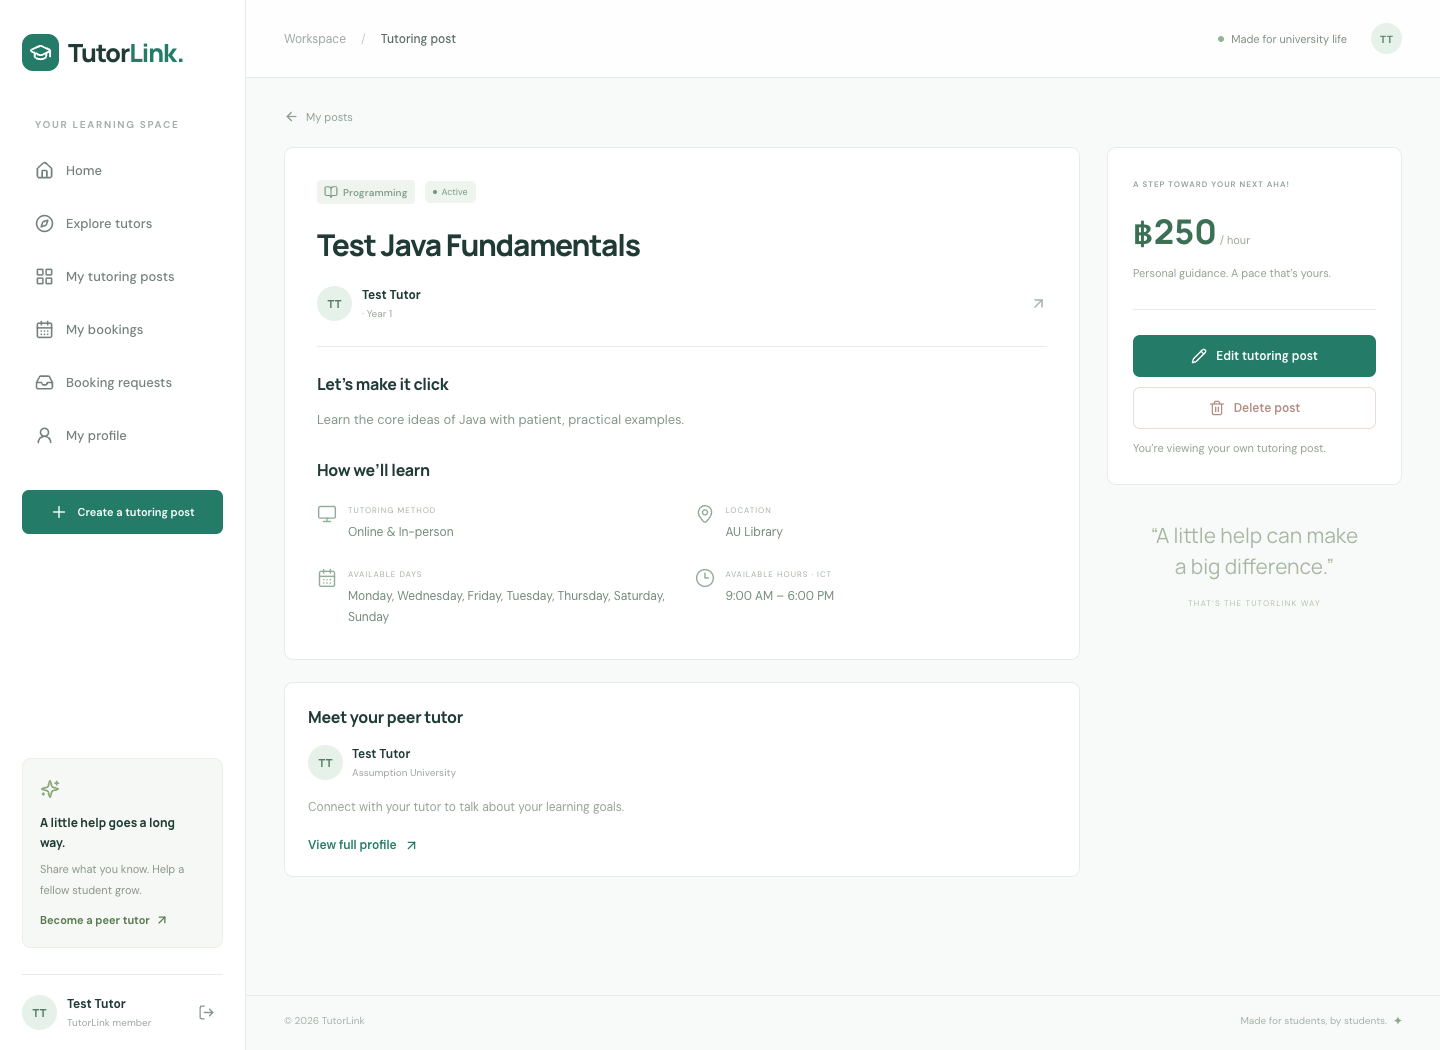
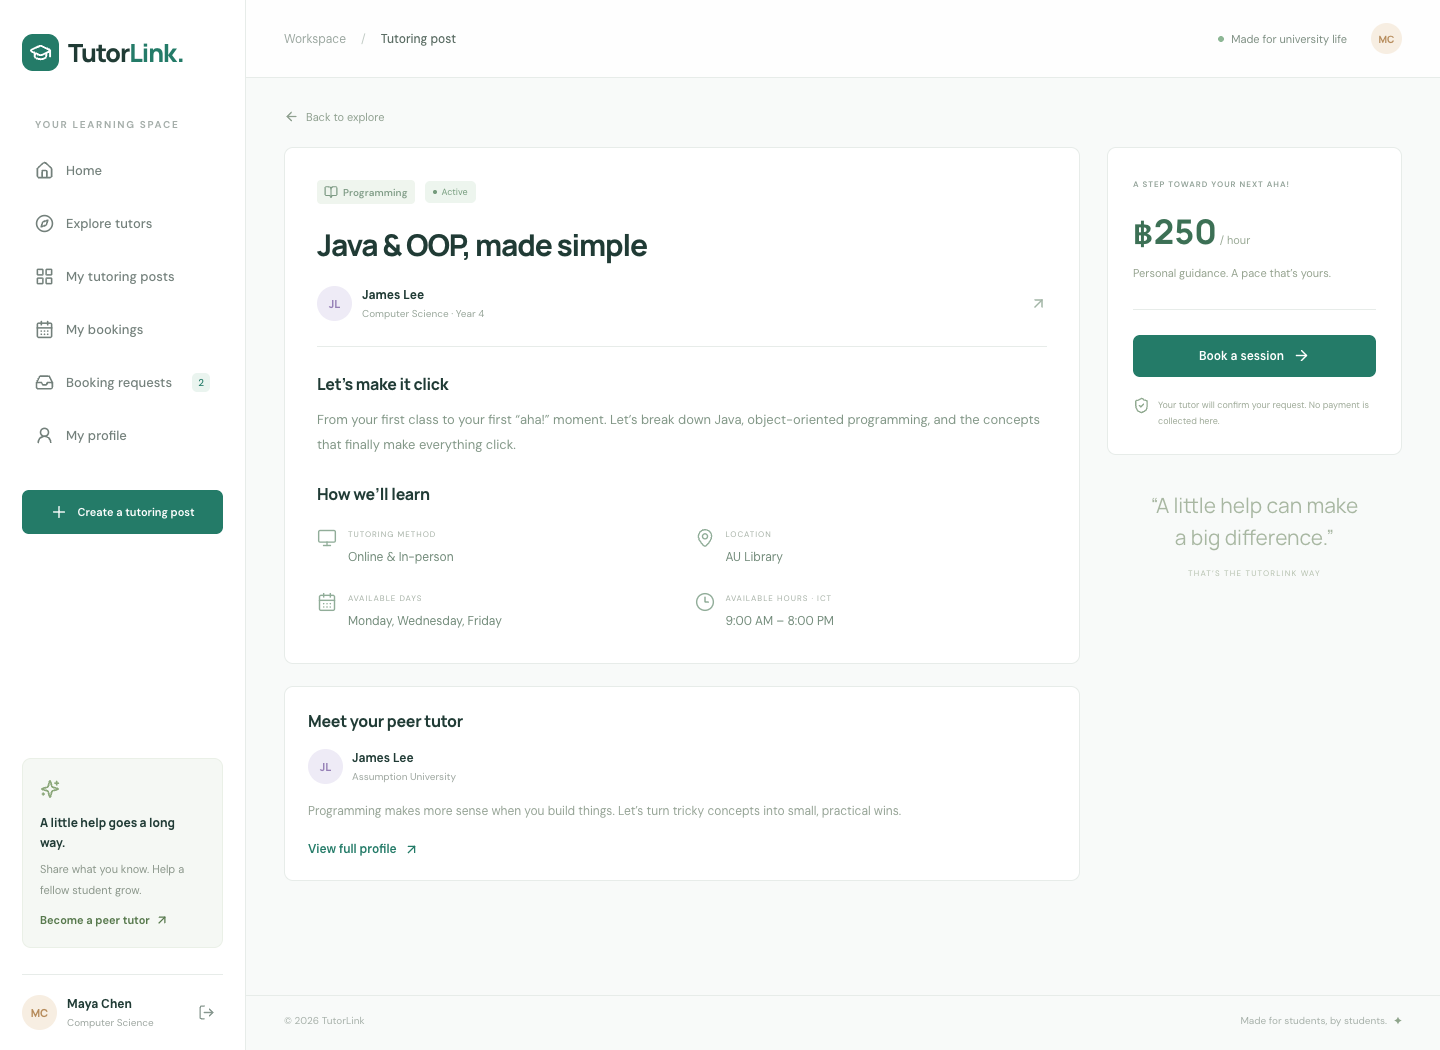
docs: add verified VM deployment and application screenshots

diff --git a/scripts/production-smoke.ts b/scripts/production-smoke.ts
@@ -1,0 +1,87 @@
+import { chromium, expect } from '@playwright/test';
+const origin = process.env.SMOKE_ORIGIN;
+if (!origin) throw new Error('Set SMOKE_ORIGIN to the full deployed app URL');
+const browser = await chromium.launch({
+  headless: true,
+  executablePath:
+    process.env.CHROME_PATH || '/Applications/Google Chrome.app/Contents/MacOS/Google Chrome',
+});
+const contexts = [await browser.newContext(), await browser.newContext()];
+const pages = await Promise.all(contexts.map((c) => c.newPage()));
+const ids: string[] = [];
+const stamp = Date.now();
+const password = 'SmokePass2026!';
+try {
+  for (const [i, page] of pages.entries()) {
+    await page.goto(origin + '/register');
+    await page.getByLabel('Full name').fill(i === 0 ? 'Smoke Tutor' : 'Smoke Student');
+    await page.getByLabel('Email address').fill(`smoke${stamp}-${i}@example.com`);
+    await page.getByLabel('Password', { exact: true }).fill(password);
+    await page.getByLabel('University').fill('Assumption University');
+    await page.getByRole('button', { name: 'Create account', exact: true }).click();
+    await expect(page.getByRole('heading', { name: /Hey, Smoke/ })).toBeVisible({ timeout: 30000 });
+    ids.push((await page.request.get(origin + '/api/auth/me').then((r) => r.json()))._id);
+  }
+  const [t, s] = pages;
+  await t.goto(origin + '/posts/new');
+  await t.getByLabel('Post title').fill('Deployment smoke test tutoring');
+  await t
+    .getByLabel('Description', { exact: true })
+    .fill('Temporary tutoring post for verifying the live booking workflow.');
+  await t.getByLabel('Location', { exact: true }).fill('University library');
+  for (const day of ['Tue', 'Thu', 'Sat', 'Sun']) await t.getByText(day, { exact: true }).check();
+  await t.getByRole('button', { name: 'Publish tutoring post' }).click();
+  await expect(t.getByRole('heading', { name: 'Deployment smoke test tutoring' })).toBeVisible();
+  const postId = t.url().split('/').pop()!;
+  await t.request.post(origin + '/api/auth/logout');
+  await t.goto(origin + '/login');
+  await t.getByLabel('Email address').fill(`smoke${stamp}-0@example.com`);
+  await t.getByLabel('Password', { exact: true }).fill(password);
+  await t.getByRole('button', { name: 'Sign in', exact: true }).click();
+  await expect(t.getByRole('heading', { name: /Hey, Smoke/ })).toBeVisible();
+  await s.goto(origin + '/posts/' + postId);
+  await s.getByRole('button', { name: 'Book a session' }).click();
+  await s
+    .getByLabel('Session date')
+    .fill(new Date(Date.now() + 21 * 86400000).toISOString().slice(0, 10));
+  await s.getByLabel('Start time').fill('11:00');
+  await s.getByRole('button', { name: 'Request session' }).click();
+  await expect(s.getByRole('heading', { name: 'Your session, at a glance.' })).toBeVisible();
+  const bookingId = s.url().split('/').pop()!;
+  await t.goto(origin + '/bookings/' + bookingId);
+  await t.getByRole('button', { name: 'Accept request' }).click();
+  await expect(t.getByText('Accepted', { exact: true })).toBeVisible();
+  await s.reload();
+  await expect(s.getByText('Accepted', { exact: true })).toBeVisible();
+  await s.getByRole('button', { name: 'Cancel booking', exact: true }).click();
+  await s.getByRole('dialog').getByRole('button', { name: 'Cancel session' }).click();
+  await expect(s.getByText('Cancelled', { exact: true })).toBeVisible();
+  expect((await s.request.delete(origin + '/api/bookings/' + bookingId)).status()).toBe(200);
+  expect((await t.request.delete(origin + '/api/posts/' + postId)).status()).toBe(200);
+  await s.goto(origin + '/profile/edit');
+  await s.getByLabel('About you').fill('Temporary deployment verification profile.');
+  await s.getByRole('button', { name: 'Save changes' }).click();
+  await expect(
+    s.getByText('Temporary deployment verification profile.', { exact: true }),
+  ).toBeVisible();
+  const invalidOrigin = await s.request.post(origin + '/api/auth/logout', {
+    headers: { origin: 'https://unrelated.example' },
+  });
+  expect(invalidOrigin.status()).toBe(403);
+  await s.setViewportSize({ width: 390, height: 844 });
+  await s.goto(origin + '/');
+  await expect(s.getByRole('heading', { name: /Hey, Smoke/ })).toBeVisible();
+  expect(await s.evaluate(() => document.documentElement.scrollWidth)).toBeLessThanOrEqual(390);
+  await s.screenshot({ path: '/tmp/tutorlink-production-mobile.png', fullPage: true });
+  console.log(
+    'Production HTTPS smoke test passed: registration, login, profile update, post creation, booking, acceptance, cancellation, deletion, CSRF origin check, and mobile layout.',
+  );
+} finally {
+  for (const [i, page] of pages.entries()) {
+    if (ids[i]) {
+      const r = await page.request.delete(origin + '/api/users/' + ids[i], { data: { password } });
+      if (r.status() !== 200) console.warn('Cleanup account failed:', r.status());
+    }
+  }
+  await browser.close();
+}

diff --git a/scripts/screenshots.ts b/scripts/screenshots.ts
@@ -8,7 +8,7 @@ const page = await browser.newPage({ viewport: { width: 1440, height: 1050 } });
 const origin = process.env.SCREENSHOT_ORIGIN || 'http://localhost:3000';
 await page.goto(origin + '/login?demo=1');
 await page.getByLabel('Email address').fill('maya@tutorlink.demo');
-await page.getByLabel('Password', {exact:true}).fill('TutorLink2026!');
+await page.getByLabel('Password', { exact: true }).fill('TutorLink2026!');
 await page.getByRole('button', { name: 'Sign in', exact: true }).click();
 await page.getByRole('heading', { name: /Hey, Maya/ }).waitFor();
 for (const [path, file, heading] of [
@@ -27,7 +27,11 @@ for (const [path, file, heading] of [
   await page.screenshot({ path: `public/screenshots/${file}.png`, fullPage: true });
 }
 const posts = await page.request.get(origin + '/api/posts?q=Java').then((r) => r.json());
-await page.goto(origin + '/posts/' + posts[0]._id);
+await page.goto(
+  origin +
+    '/posts/' +
+    posts.find((post: { title: string }) => post.title === 'Java & OOP, made simple')._id,
+);
 await page.getByRole('heading', { name: 'Java & OOP, made simple', exact: true }).waitFor();
 await page.waitForLoadState('networkidle');
 await page.screenshot({ path: 'public/screenshots/post-details.png', fullPage: true });

diff --git a/README.md b/README.md
@@ -37,7 +37,7 @@ npm ci
 npm run dev
 ```
 
-Open [http://localhost:3000](http://localhost:3000).
+Open [http://localhost:3000](http://localhost:3000), or the port printed by Next.js if 3000 is occupied. For tests on another port, set `TEST_ORIGIN=http://localhost:3001`.
 
 `npm run dev` starts an actual local MongoDB single-node replica set on port 27018, seeds sample data when the users collection is empty, then starts Next.js. Database files persist in the ignored `.data/mongo` directory. Stop with Ctrl+C. A development-only JWT secret is generated at startup; restarting signs users out but preserves their data.
 
@@ -120,7 +120,12 @@ npm test
 npm run test:e2e
 ```
 
-Browser tests cover registration, user/post/booking CRUD, ownership checks, self-booking rejection, overlapping reservations, status changes, search, and mobile overflow/navigation. `CHROME_PATH` can override the Chrome executable path in `playwright.config.ts` for Linux or other installations.
+Six unit tests and three browser/API tests pass. They cover registration, user/post/booking CRUD, ownership checks, self-booking rejection, concurrent overlapping reservations, rejection and completion, status changes, search, and mobile overflow/navigation. The deployed HTTPS app also passed registration, login, profile editing, post creation, booking, acceptance, cancellation, deletion, origin validation, and mobile checks; temporary smoke-test data was removed.
+Production verification: `SMOKE_ORIGIN=https://nyxen.centralindia.cloudapp.azure.com/tutorlink npm run test:production`. This creates temporary test accounts and deletes them after verification.
+
+Regenerate screenshots with `npm run screenshots` while local development is running; set `SCREENSHOT_ORIGIN` if it uses another port.
+
+`CHROME_PATH` can override the Chrome executable path in `playwright.config.ts` for Linux or other installations.
 
 ## Screenshots
 
@@ -144,6 +149,6 @@ The MongoDB Docker network is internal and its port is not published. The app ex
 
 ## Production URL and submission
 
-Production target: [TutorLink on the VM](https://nyxen.centralindia.cloudapp.azure.com/tutorlink). Deployment access and live operation still need verification.
+Production target: [TutorLink on the VM](https://nyxen.centralindia.cloudapp.azure.com/tutorlink). Deployed and verified over HTTPS on 5 October 2026 (Bangkok time). The app and MongoDB run in separate containers on the supplied VM, with TutorLink served through the existing Nginx certificate at `/tutorlink`.
 
 A scope-matching [proposal draft](docs/PROPOSAL.md) is included. The team must submit the proposal on time, maintain its own Git history, and record the required approximately five-minute demonstration.

diff --git a/docs/DEPLOYMENT.md b/docs/DEPLOYMENT.md
@@ -55,4 +55,4 @@ Restore: `docker compose exec -T mongo mongorestore --archive --gzip < tutorlink
 
 ## Deployment status
 
-The files are prepared for VM deployment. The target is nyxen.centralindia.cloudapp.azure.com and the repository is https://github.com/NYOWI1/TutorLink. A live deployment requires verified SSH access and has not yet been performed or verified.
+The application is deployed at https://nyxen.centralindia.cloudapp.azure.com/tutorlink. The original Nginx configuration was backed up before adding the TutorLink include. The target is nyxen.centralindia.cloudapp.azure.com and the repository is https://github.com/NYOWI1/TutorLink. Deployed and verified on 5 October 2026 (Bangkok time). Application and MongoDB containers are healthy. The production HTTPS smoke test passed registration, login, profile update, post creation, booking, acceptance, cancellation, deletion, origin validation, and mobile layout. Temporary test accounts and their associated data were deleted after verification.

diff --git a/docs/PROPOSAL.md b/docs/PROPOSAL.md
@@ -27,9 +27,9 @@ Online payments, ratings, reviews, real-time chat, video calling, AI recommendat
 
 ## Team and submission
 
-- KAUNG ZAW HEIN — https://github.com/NYOWI1
-- MOE MYINT CHO — https://github.com/MoeMyintCho
-- SHAUN LAI KYAW SAN — https://github.com/SHAUN14487
+- KAUNG ZAW HEIN — [GitHub](https://github.com/NYOWI1)
+- MOE MYINT CHO — [GitHub](https://github.com/MoeMyintCho)
+- SHAUN LAI KYAW SAN — [GitHub](https://github.com/SHAUN14487)
 
 Repository: https://github.com/NYOWI1/TutorLink
 
